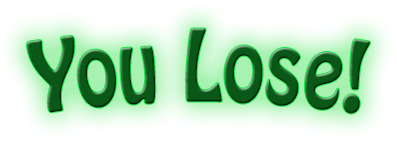
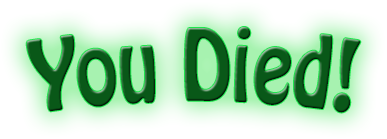
changed lose case and pickLevelTitle

Changed region(s): [[0.4651, 0.1151, 0.9612, 0.8345], [0.062, 0.2302, 0.4031, 0.8058]]

diff --git a/NeeditFeeditCocos/GameOverLayer.m b/NeeditFeeditCocos/GameOverLayer.m
@@ -122,7 +122,7 @@
         background.position = ccp(size.width/2, size.height/2);
         [self addChild:background z:-1];
         
-        message.position = ccp(size.width/2, 7*size.height/8);
+        message.position = ccp(size.width/2, 13*size.height/16);
         [self addChild:message];
         
         [CCMenuItemFont setFontName:@"Hobo"];
